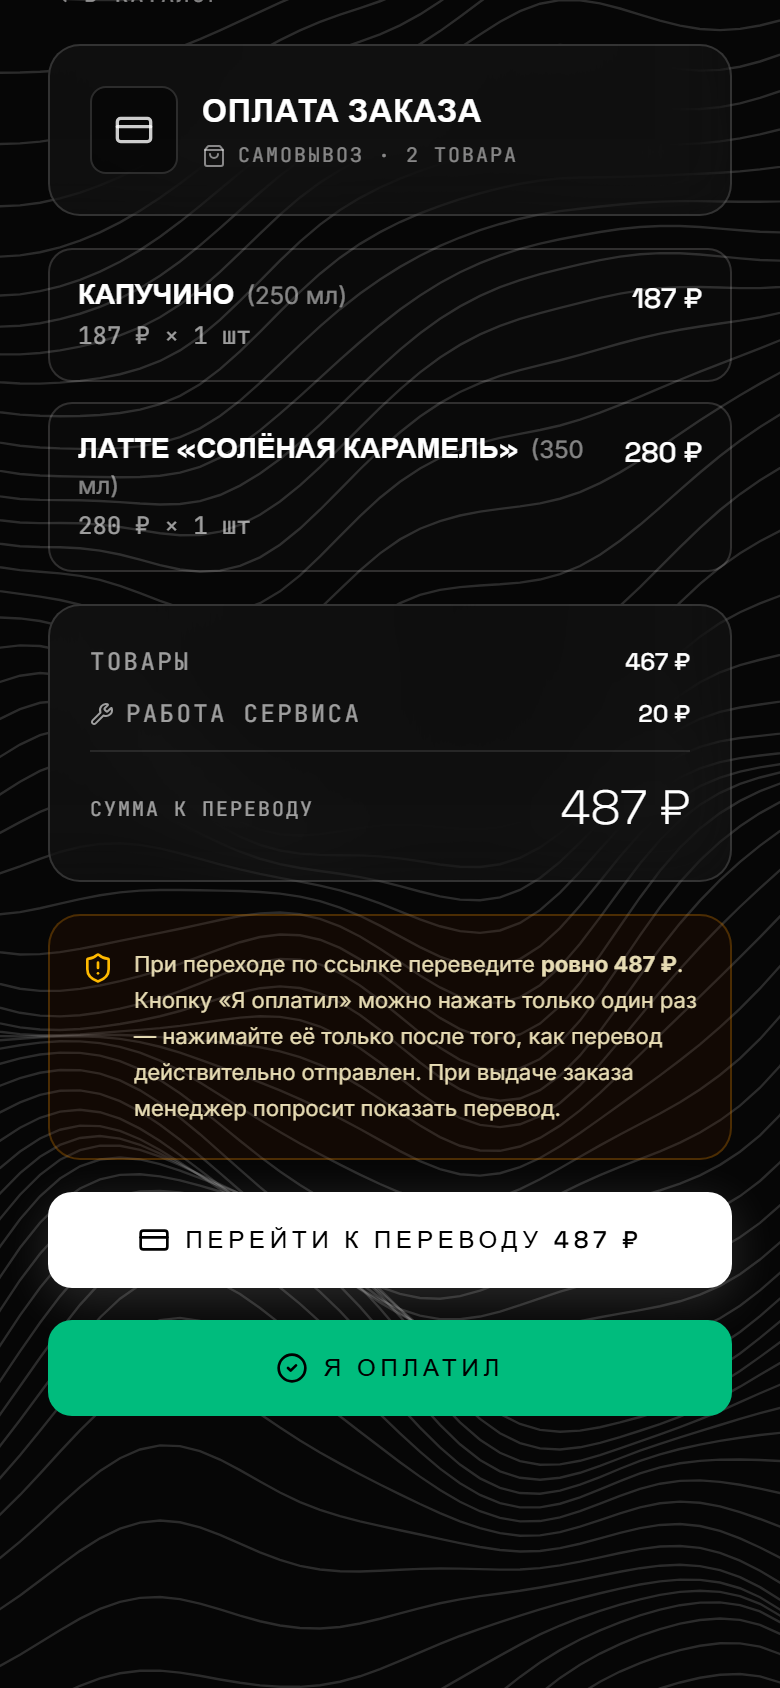
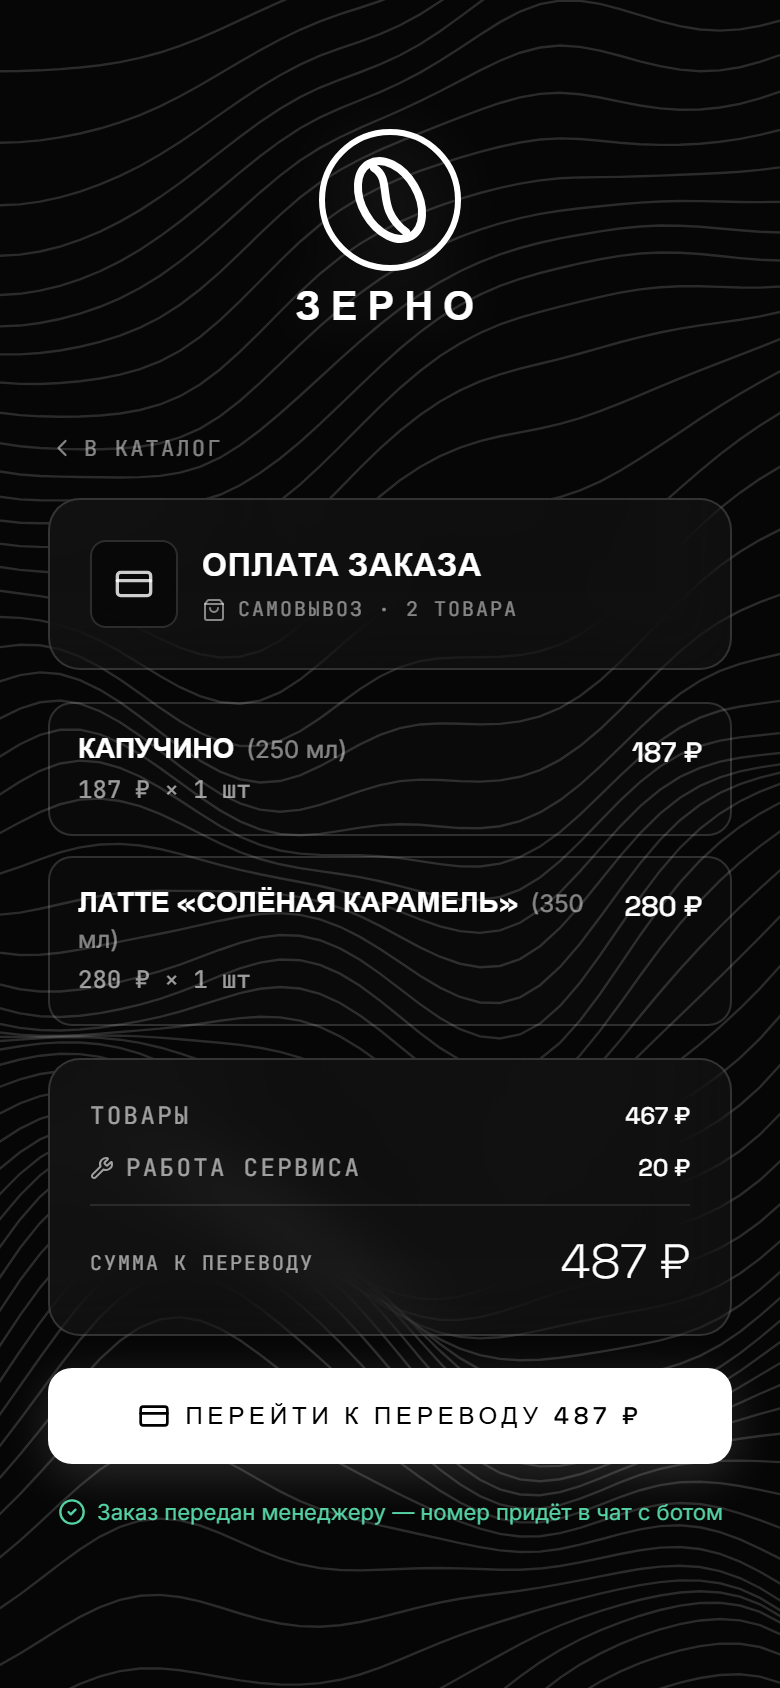
Экран оплаты: переход к переводу сразу передаёт заказ менеджеру

diff --git a/webapp/src/components/PaymentGate.tsx b/webapp/src/components/PaymentGate.tsx
@@ -8,9 +8,7 @@ import {
   Truck,
   Wrench,
   Loader2,
-  ShieldAlert,
   CheckCircle2,
-  X,
   ChevronLeft
 } from 'lucide-react';
 import { buildIdentityParams, getPluralRussian, getUserId, identityBody, triggerHaptic } from '../tg';
@@ -35,17 +33,16 @@ interface PendingOrder {
 /**
  * Экран оплаты картой: состав заказа + сумма к переводу и статичная ссылка СБП
  * (PAY_LINK в .env) — сумму в неё не подставить, клиент переводит сам ровно
- * столько, сколько указано на экране. После перехода по ссылке разблокируется
- * «Я оплатил» — одноразовая кнопка, которая шлёт заказ в группу менеджеров.
+ * столько, сколько указано на экране. Кнопка перехода к оплате заодно отправляет
+ * заказ менеджерам (они сверяют поступление перед выдачей); ссылку можно открыть повторно.
  */
 export default function PaymentGate({ onBack }: { onBack?: () => void } = {}) {
   const [order, setOrder] = useState<PendingOrder | null>(null);
   const [loading, setLoading] = useState(true);
   const [error, setError] = useState<string | null>(null);
-  const [hasOpenedPayLink, setHasOpenedPayLink] = useState(false);
-  const [confirming, setConfirming] = useState(false);
-  const [confirmError, setConfirmError] = useState<string | null>(null);
-  const [done, setDone] = useState(false);
+  const [sending, setSending] = useState(false);
+  const [sent, setSent] = useState(false);
+  const [sendError, setSendError] = useState<string | null>(null);
 
   const fetchOrder = async () => {
     setLoading(true);
@@ -83,27 +80,12 @@ export default function PaymentGate({ onBack }: { onBack?: () => void } = {}) {
     }
   }, []);
 
-  const handleOpenPayLink = () => {
-    if (!order?.pay_url) return;
-    triggerHaptic('medium');
-    // openLink открывает страницу оплаты во внешнем браузере — так требует Telegram
-    if (window.Telegram?.WebApp?.openLink) {
-      window.Telegram.WebApp.openLink(order.pay_url);
-    } else {
-      window.open(order.pay_url, '_blank');
-    }
-    setHasOpenedPayLink(true);
-  };
-
-  const handleConfirmPaid = async () => {
-    if (!hasOpenedPayLink || confirming || done) return;
+  const sendToManager = async () => {
     const userId = getUserId();
     if (!userId) return;
 
-    setConfirming(true);
-    setConfirmError(null);
-    triggerHaptic('heavy');
-
+    setSending(true);
+    setSendError(null);
     try {
       const res = await fetch(`/api/confirm-card-payment`, {
         method: 'POST',
@@ -115,21 +97,28 @@ export default function PaymentGate({ onBack }: { onBack?: () => void } = {}) {
       });
       if (!res.ok) {
         const data = await res.json().catch(() => null);
-        throw new Error(data?.detail || 'Не получилось отправить подтверждение, попробуйте ещё раз');
+        throw new Error(data?.detail || 'Не получилось передать заказ менеджеру, нажмите кнопку ещё раз');
       }
-      setDone(true);
+      setSent(true);
     } catch (err: any) {
       console.error(err);
-      setConfirmError(err.message || 'Не получилось отправить подтверждение');
-      setConfirming(false);
+      setSendError(err.message || 'Не получилось передать заказ менеджеру');
+    } finally {
+      setSending(false);
     }
   };
 
-  const handleClose = () => {
-    triggerHaptic('light');
-    if (window.Telegram?.WebApp?.close) {
-      window.Telegram.WebApp.close();
+  const handleOpenPayLink = () => {
+    if (!order?.pay_url) return;
+    triggerHaptic('medium');
+    // openLink — синхронно в обработчике клика (Telegram открывает внешние ссылки только по жесту юзера)
+    if (window.Telegram?.WebApp?.openLink) {
+      window.Telegram.WebApp.openLink(order.pay_url);
+    } else {
+      window.open(order.pay_url, '_blank');
     }
+    // Сервер идемпотентен, но повторный клик после успешной отправки просто снова открывает ссылку.
+    if (!sent && !sending) sendToManager();
   };
 
   if (loading) {
@@ -179,32 +168,6 @@ export default function PaymentGate({ onBack }: { onBack?: () => void } = {}) {
               </button>
             )}
           </div>
-        </div>
-      </motion.div>
-    );
-  }
-
-  if (done) {
-    return (
-      <motion.div
-        key="payment-done"
-        initial={{ opacity: 0, y: 15 }}
-        animate={{ opacity: 1, y: 0 }}
-        className="flex flex-col items-center justify-center min-h-[60vh] px-2"
-      >
-        <div className="w-full max-w-sm p-7 rounded-2xl border border-emerald-500/20 bg-emerald-950/30 backdrop-blur-lg text-center">
-          <CheckCircle2 className="w-10 h-10 text-emerald-400 mx-auto mb-4" />
-          <p className="font-display font-semibold text-sm uppercase tracking-widest text-emerald-200">Спасибо за заказ!</p>
-          <p className="mt-2 text-xs font-sans text-emerald-100/80 leading-relaxed">
-            Вскоре с вами свяжется менеджер для уточнения деталей.
-          </p>
-          <button
-            onClick={handleClose}
-            className="mt-5 inline-flex items-center space-x-1.5 text-xs bg-white/10 text-white font-mono px-4 py-2 rounded-lg border border-white/20 hover:bg-white/20 transition-all cursor-pointer"
-          >
-            <X className="w-3 h-3" />
-            <span>Закрыть</span>
-          </button>
         </div>
       </motion.div>
     );
@@ -308,52 +271,36 @@ export default function PaymentGate({ onBack }: { onBack?: () => void } = {}) {
           </div>
         </div>
 
-        {/* Предупреждение — ссылка не привязана к сумме, юзер переводит сам */}
-        <div className="p-4 rounded-2xl border border-amber-500/25 bg-amber-950/20 flex items-start gap-2.5">
-          <ShieldAlert className="w-4 h-4 text-amber-400 shrink-0 mt-0.5" />
-          <p className="text-[11px] font-sans text-amber-100/90 leading-relaxed">
-            При переходе по ссылке переведите <b>ровно {order.full_price} ₽</b>. Кнопку «Я оплатил»
-            можно нажать только один раз — нажимайте её только после того, как перевод
-            действительно отправлен. При выдаче заказа менеджер попросит показать перевод.
-          </p>
-        </div>
-
-        {/* Pay link button */}
+        {/* Ссылка СБП не привязана к сумме: открывает перевод и передаёт заказ менеджеру */}
         <button
           onClick={handleOpenPayLink}
           className="w-full py-4 rounded-xl bg-white text-black font-display font-medium text-xs tracking-[0.2em] uppercase shadow-[0_6px_25px_rgba(255,255,255,0.15)] hover:bg-gray-100 transition-all text-center flex items-center justify-center space-x-2 active:scale-[0.98] cursor-pointer"
         >
-          <CreditCard className="w-4 h-4" />
+          {sending ? <Loader2 className="w-4 h-4 animate-spin" /> : <CreditCard className="w-4 h-4" />}
           <span>Перейти к переводу {order.full_price} ₽</span>
         </button>
 
-        {/* «Я оплатил» — заблокирована, пока не открыта ссылка перевода */}
-        <button
-          onClick={handleConfirmPaid}
-          disabled={!hasOpenedPayLink || confirming}
-          className={`w-full py-4 rounded-xl font-display font-medium text-xs tracking-[0.2em] uppercase transition-all text-center flex items-center justify-center space-x-2 ${
-            hasOpenedPayLink && !confirming
-              ? 'bg-emerald-500 text-black hover:bg-emerald-400 active:scale-[0.98] cursor-pointer'
-              : 'bg-white/10 text-white/40 cursor-not-allowed'
-          }`}
-        >
-          {confirming ? (
-            <Loader2 className="w-4 h-4 animate-spin" />
-          ) : (
-            <CheckCircle2 className="w-4 h-4" />
-          )}
-          <span>Я оплатил</span>
-        </button>
-
         <AnimatePresence>
-          {confirmError && (
+          {sent && (
             <motion.p
+              key="sent"
+              initial={{ opacity: 0 }}
+              animate={{ opacity: 1 }}
+              className="flex items-center justify-center gap-1.5 text-center text-[11px] font-sans text-emerald-300/90"
+            >
+              <CheckCircle2 className="w-3.5 h-3.5 shrink-0" />
+              <span>Заказ передан менеджеру — номер придёт в чат с ботом</span>
+            </motion.p>
+          )}
+          {sendError && (
+            <motion.p
+              key="error"
               initial={{ opacity: 0 }}
               animate={{ opacity: 1 }}
               exit={{ opacity: 0 }}
               className="text-center text-[11px] font-sans text-red-300/90"
             >
-              {confirmError}
+              {sendError}
             </motion.p>
           )}
         </AnimatePresence>

diff --git a/server_api.py b/server_api.py
@@ -530,8 +530,8 @@ class ConfirmCardPaymentRequest(BaseModel):
 
 @app.post("/api/confirm-card-payment")
 async def confirm_card_payment(payload: ConfirmCardPaymentRequest):
-    """Юзер сам подтвердил оплату по статичной ссылке СБП (кнопка «Я оплатил» в вебаппе) —
-    отправляем заказ в группу менеджеров с кнопками «Заказ отдан»/«Отменить».
+    """Юзер перешёл к оплате по статичной ссылке СБП (кнопка перевода в вебаппе) — отправляем
+    заказ в группу менеджеров с кнопками «Заказ отдан»/«Отменить»; поступление менеджер сверяет сам.
     Идемпотентно — повторный вызов на уже отправленный заказ ничего не шлёт повторно."""
     verified_id = _verify_user_id(payload.init_data, payload.webapp_uid, payload.webapp_sig)
     if verified_id is None or verified_id != payload.user_id:
@@ -573,7 +573,7 @@ async def confirm_card_payment(payload: ConfirmCardPaymentRequest):
         )
     except Exception as e:
         # Не отправилось менеджеру — откатываем резерв склада. sent_to_manager
-        # остаётся False, так что юзер может просто нажать «Я оплатил» ещё раз.
+        # остаётся False, так что повторный клик по кнопке перевода отправит заказ ещё раз.
         print(f"Ошибка отправки заказа менеджеру: {e}")
         await restock_items(pending["cart_items"])
         raise HTTPException(status_code=502, detail="Не удалось отправить заказ менеджеру, попробуйте ещё раз через минуту")

diff --git a/handlers/routes.py b/handlers/routes.py
@@ -328,7 +328,7 @@ def create_pending_card_order(
 ) -> None:
     """Оформление заказа картой из /api/order. Склад НЕ резервирует и номер НЕ
     присваивает — это происходит в /api/confirm-card-payment (server_api.py), когда юзер
-    нажмёт «Я оплатил» в вебаппе. До этого передумавший клиент ничего не блокирует."""
+    перейдёт к переводу в вебаппе. До этого передумавший клиент ничего не блокирует."""
     order_key = new_order_key()
     full_price = total_price + delivery_cost + SERVICE_FEE
 

diff --git a/handlers/cron.py b/handlers/cron.py
@@ -35,7 +35,7 @@ async def _expire_pending_order(bot: Bot, order_key: str, order_data: dict) -> N
     except Exception:
         pass
 
-    # Менеджеры видели только заказы, отправленные им в чат (наличные / «Я оплатил»).
+    # Менеджеры видели только заказы, отправленные им в чат (наличные / переход к оплате картой).
     # Снимаем кнопки, иначе «Заказ отдан» на 25-й час выдал бы товар мимо склада и отчёта.
     manager_message_id = order_data.get("manager_message_id")
     if manager_message_id:
